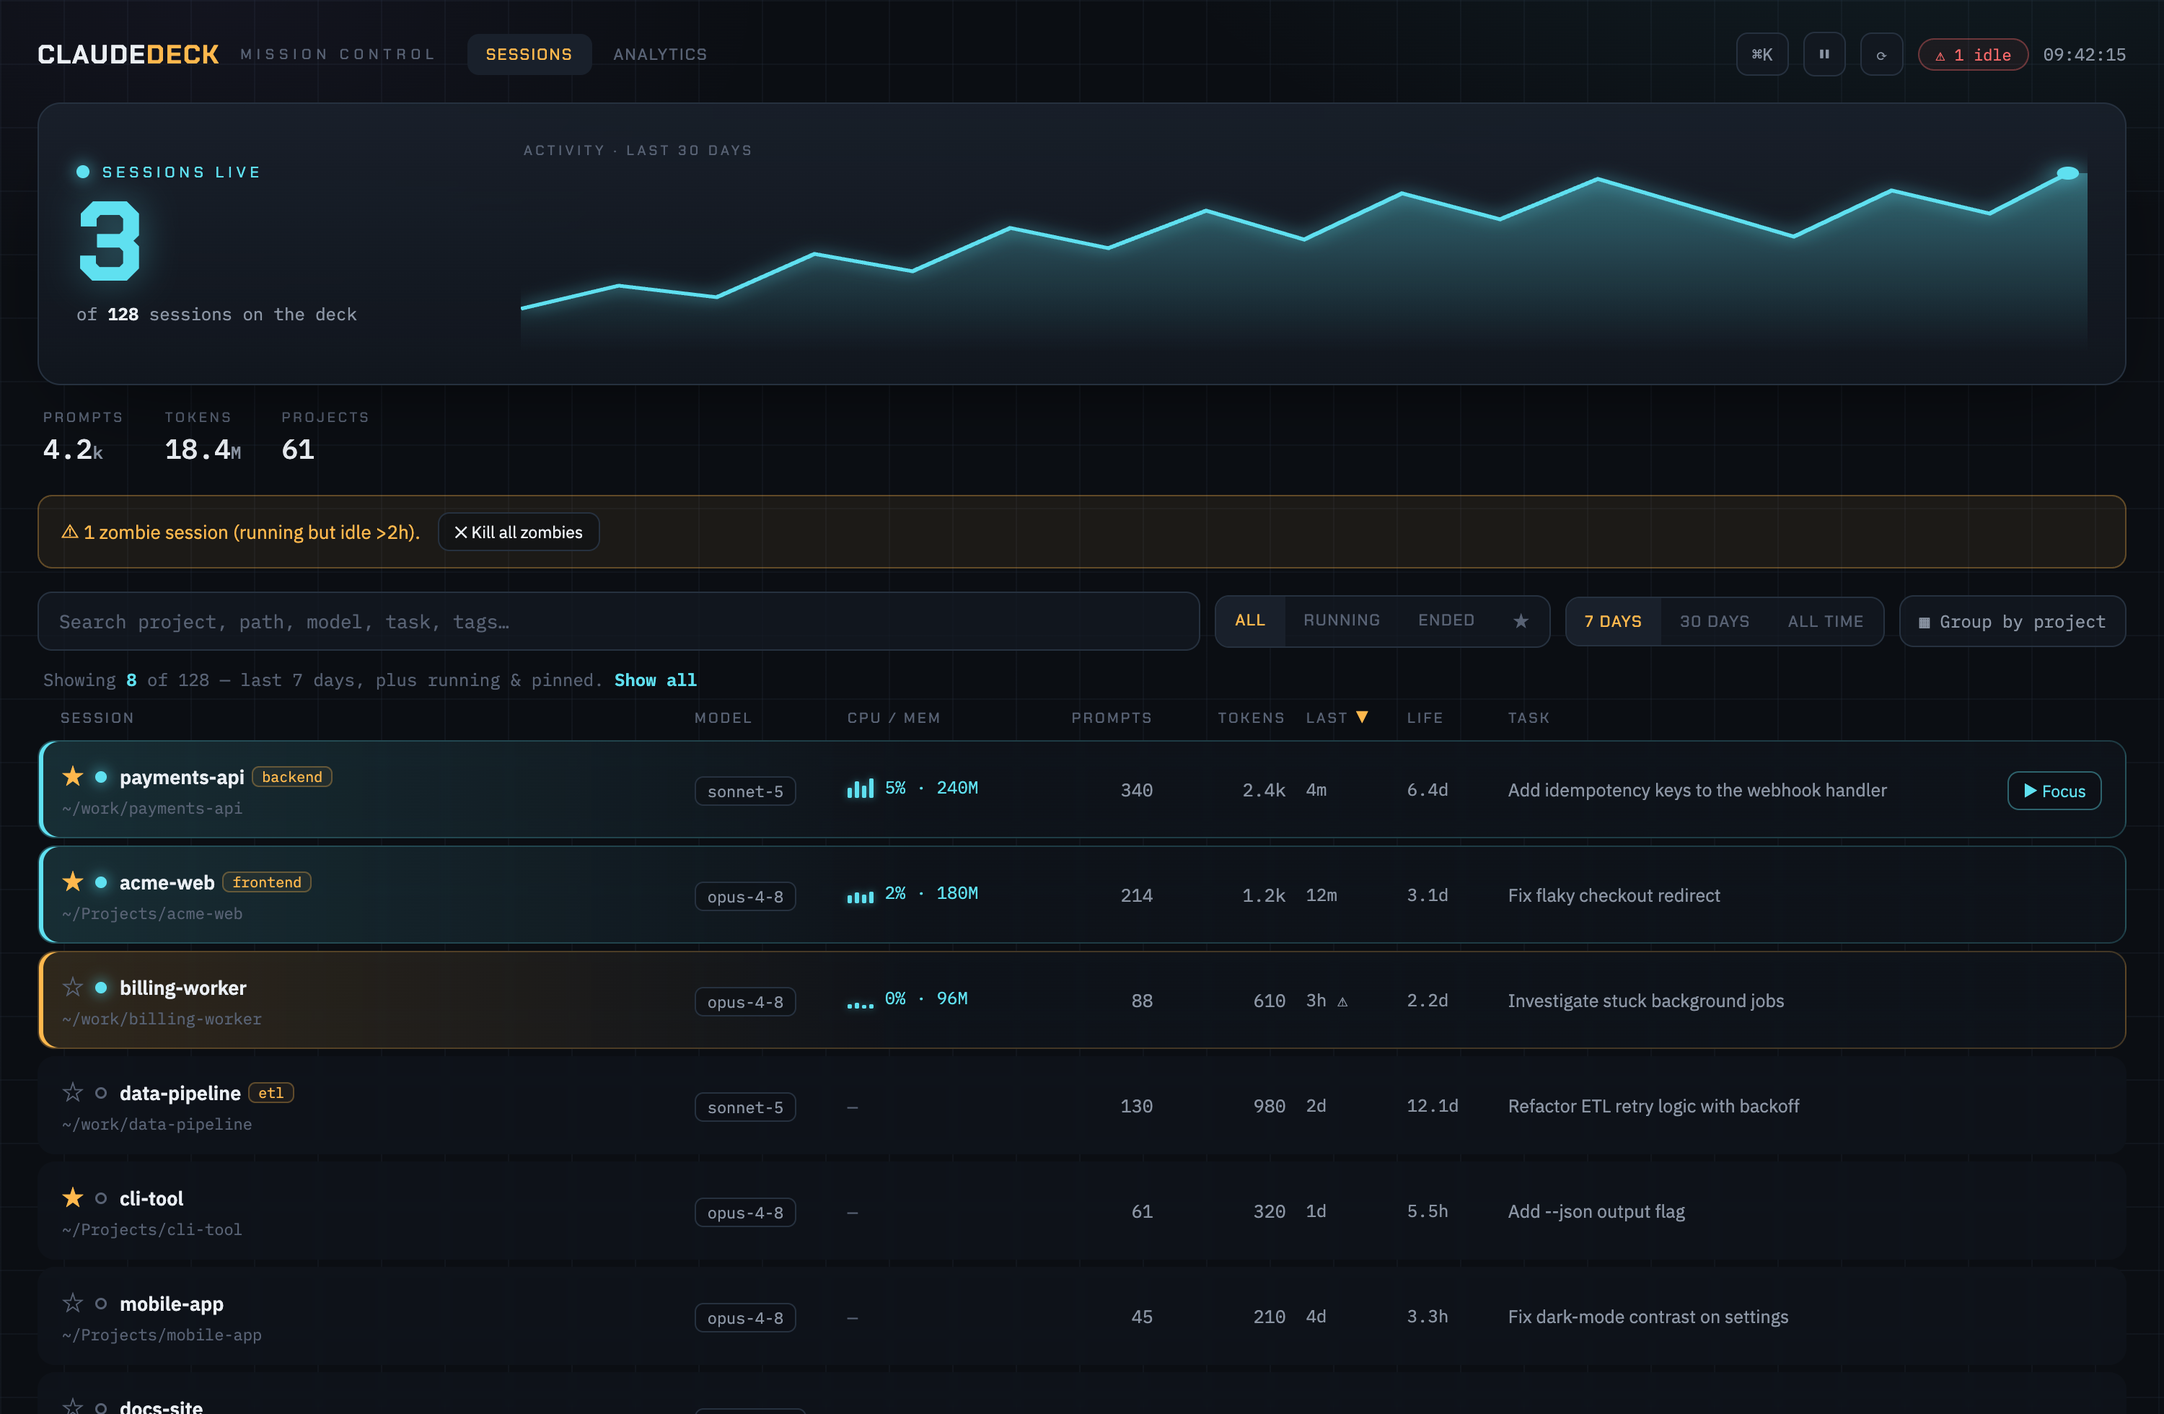
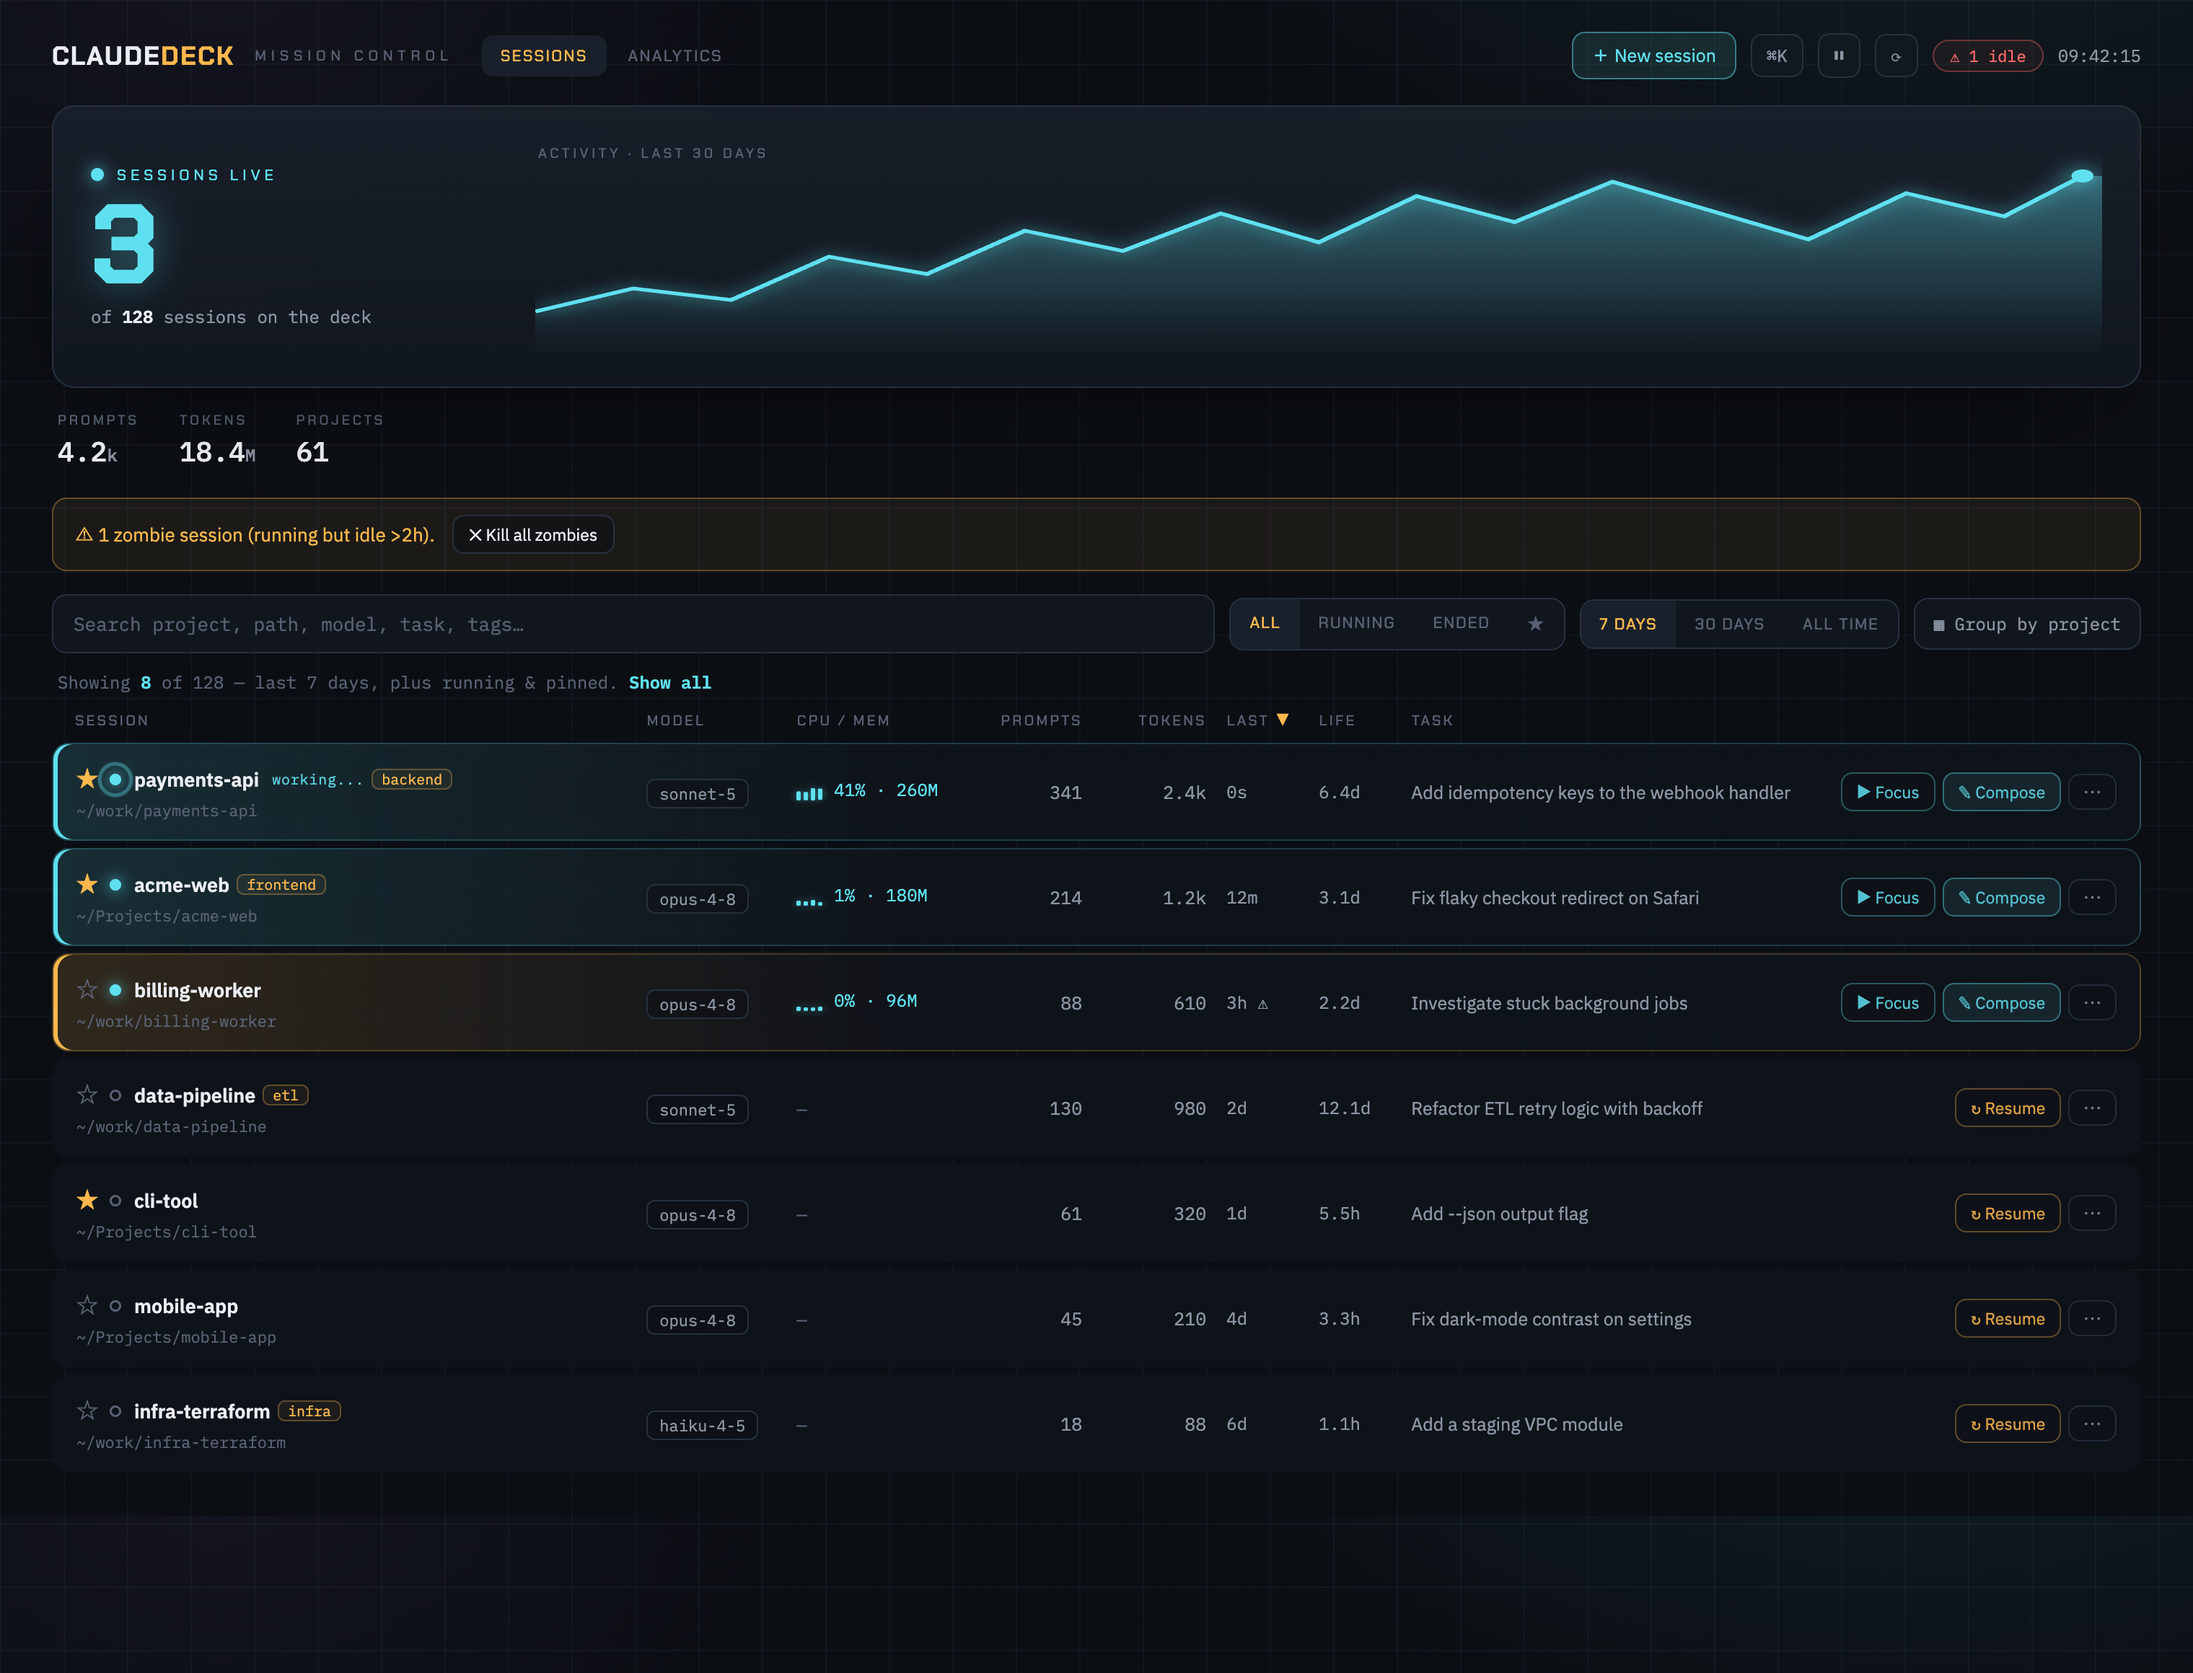
docs: refresh screenshots for the current UI + add a feature gallery
Regenerate the hero screenshot to show the current dashboard (New session
button, always-visible Focus/Compose row actions, the live "working…" pulse +
equalizer, zombie banner). Add a "closer look" gallery: Compose & send, the
row Actions menu, New session, and Analytics.

All screenshots are fabricated dummy data rendered from local mocks — no real
session names, paths, tickets, or links.

diff --git a/README.md b/README.md
@@ -31,6 +31,14 @@ Run Claude Code enough and the sessions pile up — dozens of them, scattered ac
 - **Favorites ★, tags & notes**, group-by-project, and a **⌘K palette** to jump to any session instantly.
 - **Zombie sweep** — spot and bulk-kill sessions that are running but idle.
 
+## A closer look
+
+| Compose & send into a running session | Act on a session from its row |
+| :---: | :---: |
+| ![Compose & send](docs/compose.png) | ![Row actions](docs/actions.png) |
+| **Start a session in any directory** | **See how you use Claude Code** |
+| ![New session](docs/new-session.png) | ![Analytics](docs/analytics.png) |
+
 ## Quick start
 
 **Install (prebuilt binary):**
